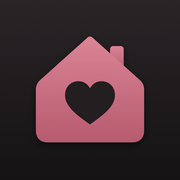
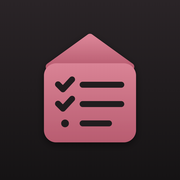
Ny appikon: tavla med tak och checklista, i ljus och mörk variant
Claude-Session: https://claude.ai/code/session_01LyHUtVC5PadBGYaZn2n2eM

Changed region(s): [[0.1944, 0.1667, 0.8056, 0.8056], [0.3056, 0.4167, 0.6944, 0.7222], [0.3333, 0.6667, 0.3889, 0.7222]]

diff --git a/index.html b/index.html
@@ -11,10 +11,10 @@
 <meta name="apple-mobile-web-app-status-bar-style" content="default">
 <meta name="apple-mobile-web-app-title" content="Hemma">
 <link rel="manifest" href="manifest.webmanifest">
-<link rel="apple-touch-icon" id="touch-icon" href="icons/apple-touch-icon.png?v=3">
-<link rel="icon" type="image/png" sizes="192x192" href="icons/icon-192.png?v=3" media="(prefers-color-scheme: light)">
-<link rel="icon" type="image/png" sizes="192x192" href="icons/icon-192-dark.png?v=3" media="(prefers-color-scheme: dark)">
-<script>/* Hemskärmsikonen väljs när appen läggs till: mörk om telefonen är i mörkt läge */try{if(matchMedia('(prefers-color-scheme: dark)').matches)document.getElementById('touch-icon').href='icons/apple-touch-icon-dark.png?v=3'}catch(e){}</script>
+<link rel="apple-touch-icon" id="touch-icon" href="icons/apple-touch-icon.png?v=4">
+<link rel="icon" type="image/png" sizes="192x192" href="icons/icon-192.png?v=4" media="(prefers-color-scheme: light)">
+<link rel="icon" type="image/png" sizes="192x192" href="icons/icon-192-dark.png?v=4" media="(prefers-color-scheme: dark)">
+<script>/* Hemskärmsikonen väljs när appen läggs till: mörk om telefonen är i mörkt läge */try{if(matchMedia('(prefers-color-scheme: dark)').matches)document.getElementById('touch-icon').href='icons/apple-touch-icon-dark.png?v=4'}catch(e){}</script>
 <style>
 /* ===== 1. Tokens (iOS systemfärger, se docs/ios-design.md) ===== */
 :root{

diff --git a/sw.js b/sw.js
@@ -1,7 +1,7 @@
 // Sparar appens filer så att den startar snabbt och fungerar utan nät.
 // Hushållets data hämtas alltid från kalkylarket.
-const VERSION = 'ht-v15';
-const SHELL = ['./', './index.html', './app.js?v=13', './config.js?v=13', './manifest.webmanifest', './icons/icon-192.png?v=3', './icons/icon-192-dark.png?v=3', './icons/apple-touch-icon.png?v=3', './icons/apple-touch-icon-dark.png?v=3'];
+const VERSION = 'ht-v16';
+const SHELL = ['./', './index.html', './app.js?v=13', './config.js?v=13', './manifest.webmanifest', './icons/icon-192.png?v=4', './icons/icon-192-dark.png?v=4', './icons/apple-touch-icon.png?v=4', './icons/apple-touch-icon-dark.png?v=4'];
 
 self.addEventListener('install', e => {
   e.waitUntil(caches.open(VERSION).then(c => c.addAll(SHELL)).then(() => self.skipWaiting()));
